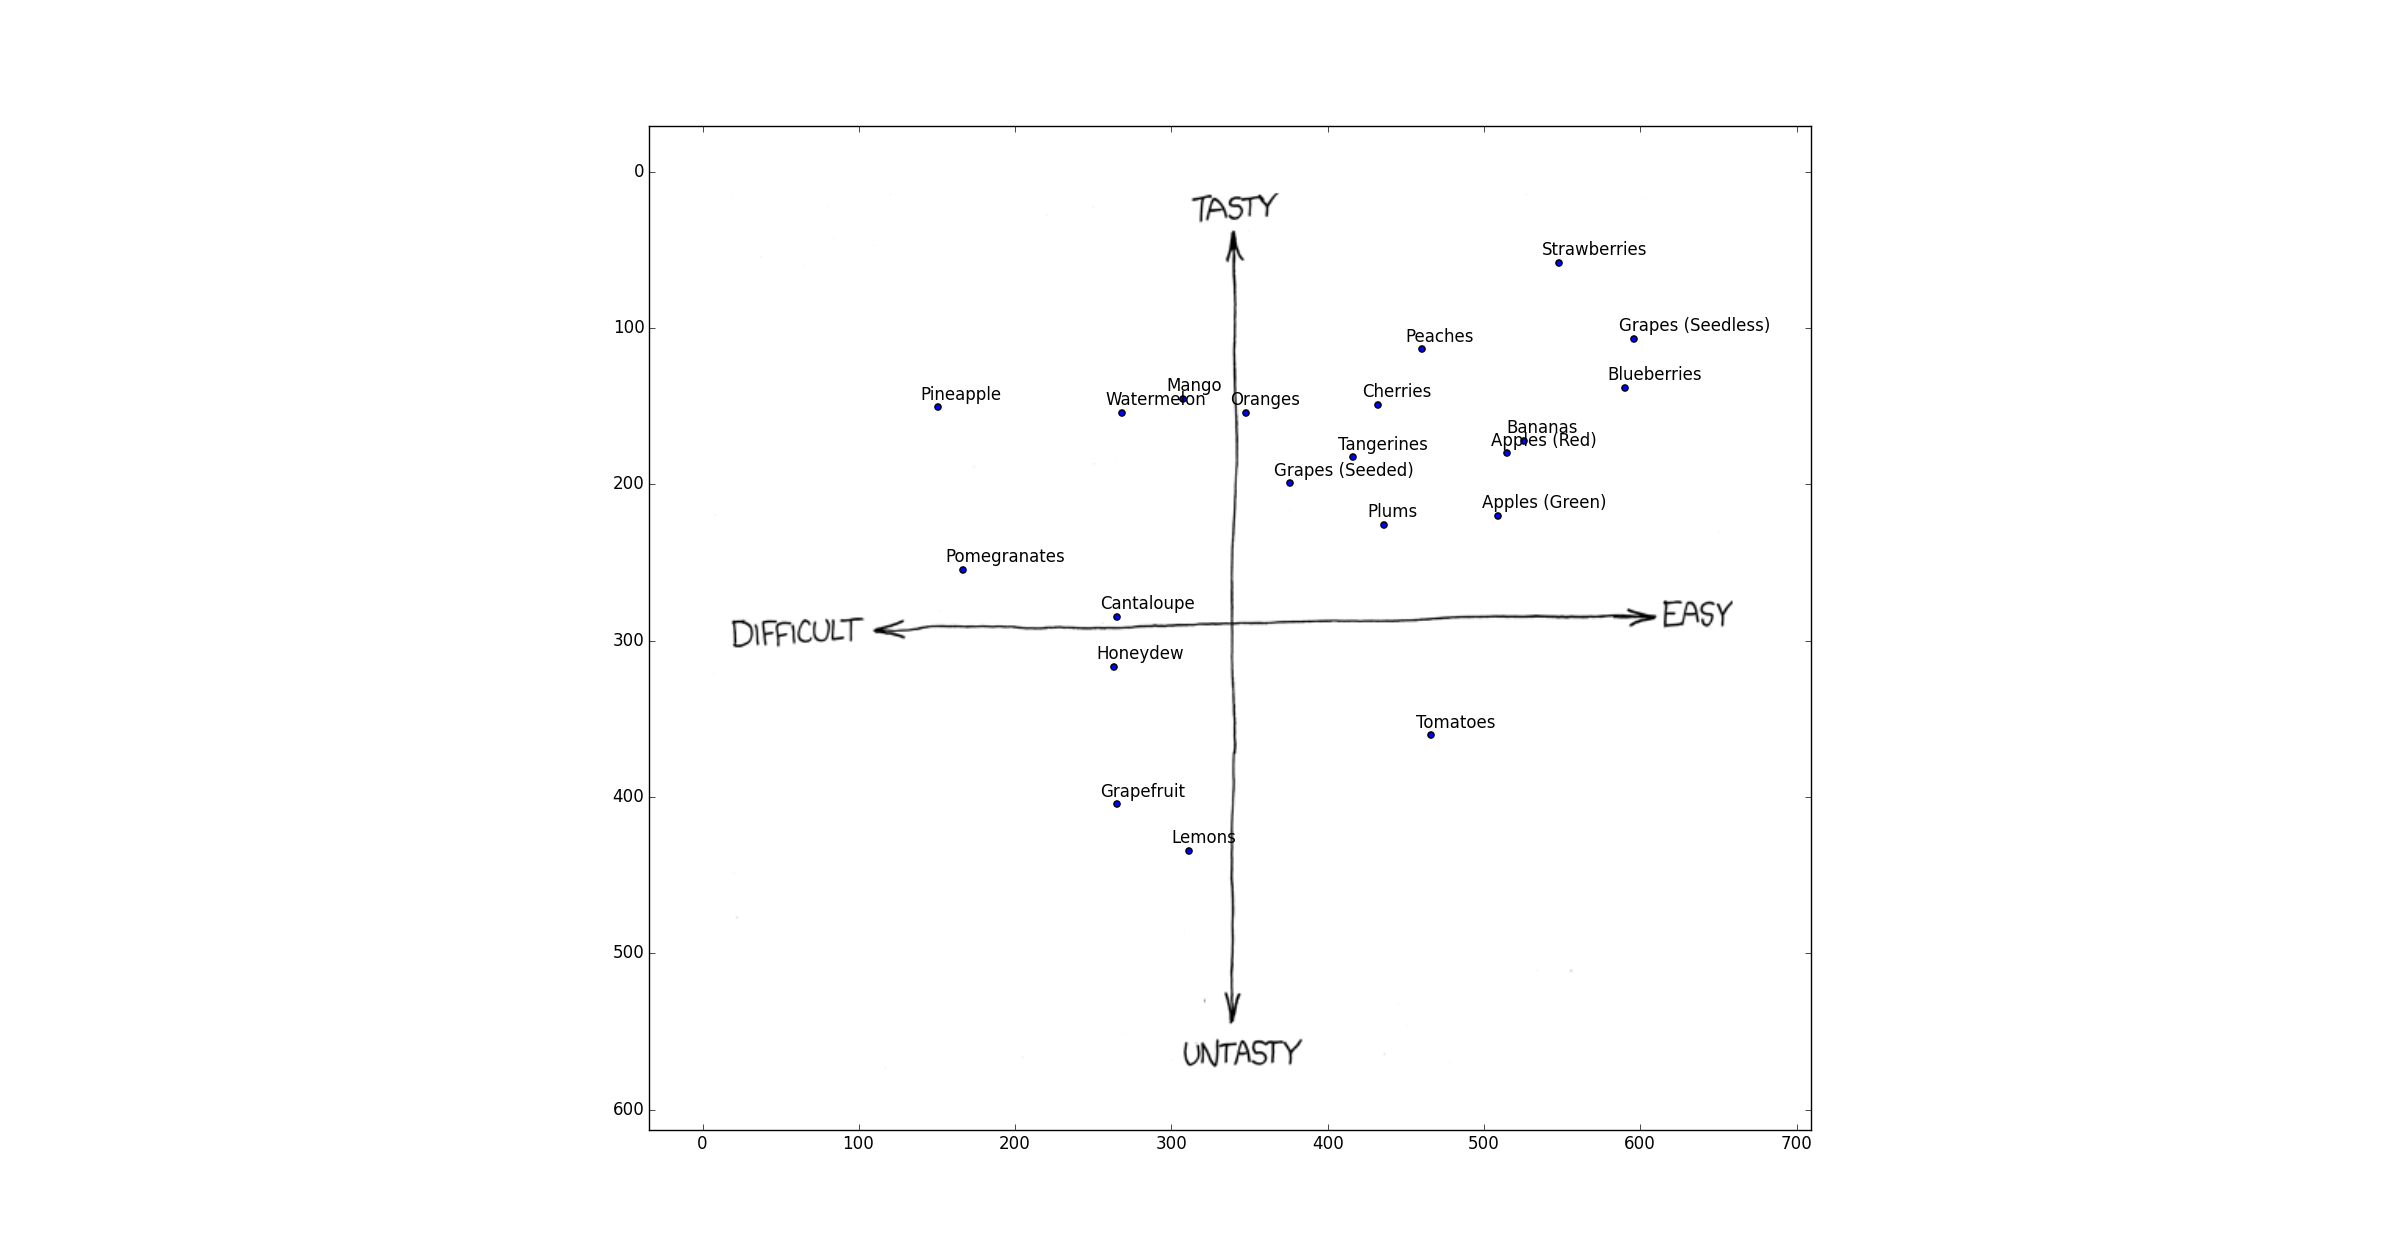
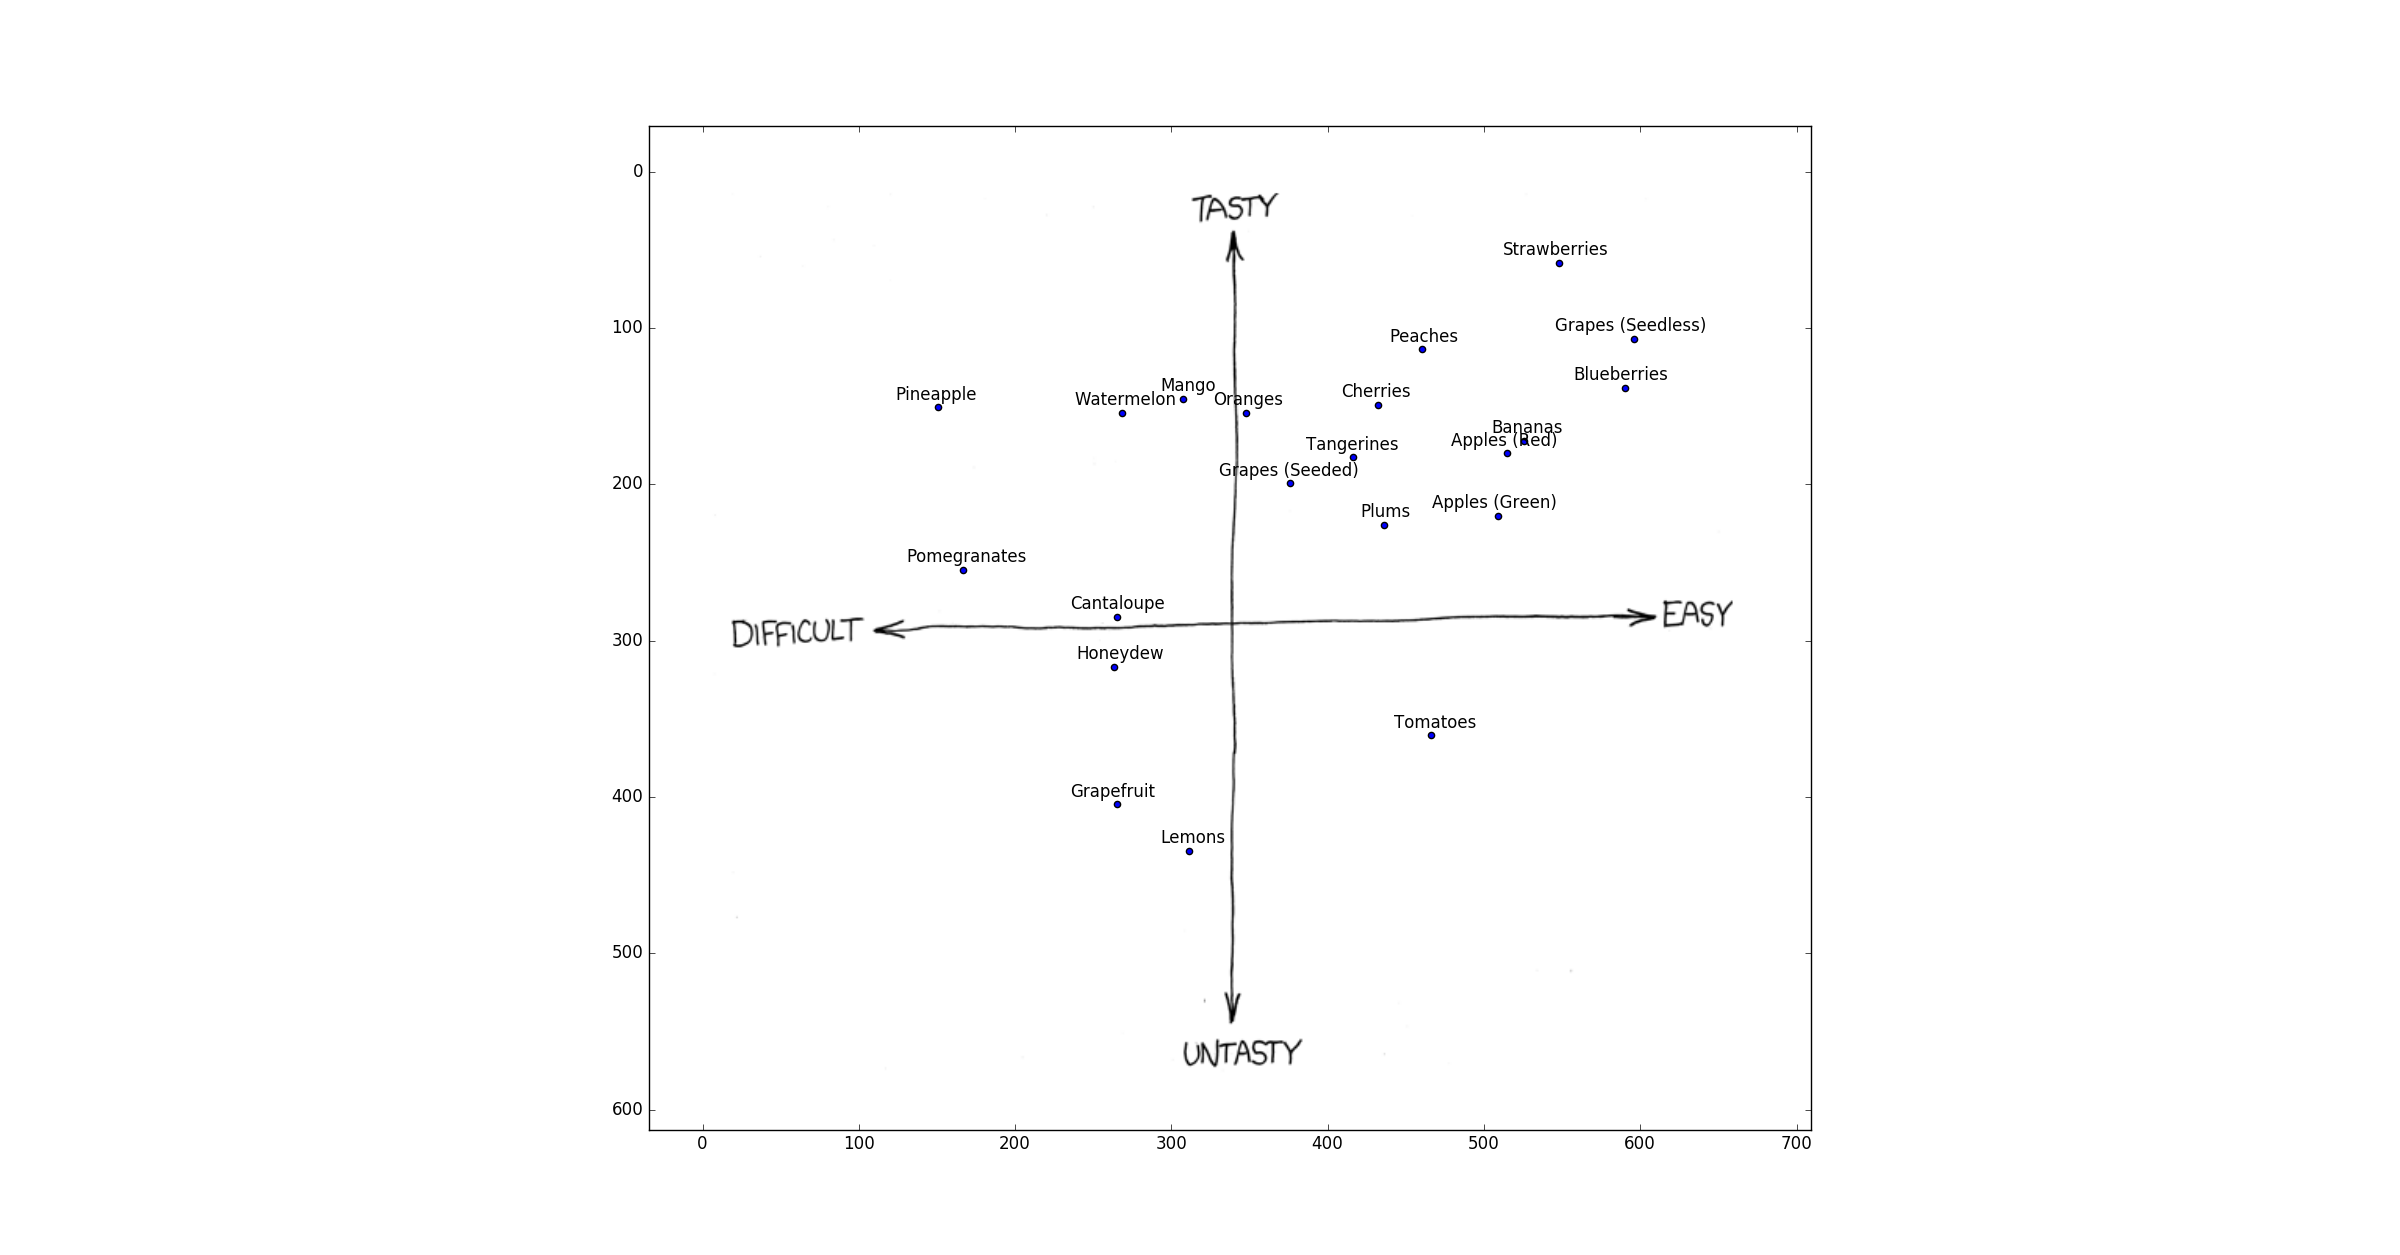
Adding a lot more pictures, slightly changed graph generation

diff --git a/_scripts/fruit_grapher.py b/_scripts/fruit_grapher.py
@@ -178,6 +178,27 @@ def fit_gaussian(data, averages, categories):
 
 covariances = fit_gaussian(data, plotted_avgs, categories)
 
+fruits = list(averages.keys())
+hardest = sorted(fruits, key=lambda f: averages[f][0])
+easiest = sorted(fruits, key=lambda f: -averages[f][0])
+worst = sorted(fruits, key=lambda f: averages[f][1])
+tastiest = sorted(fruits, key=lambda f: -averages[f][1])
+# Area of ellipse = pi * a * b where a,b are lengths of major and minor
+# axes.
+# For covariance matrices, a and b are the sqrt of the eigenvalues
+# The determinant is the product of the eigenvalues
+# So, the determinant corresponds exactly to the area of the ellipse for
+# 1 stddev away.
+agreed_on = sorted(fruits, key=lambda f: np.linalg.det(covariances[f]))
+controversial = sorted(fruits, key=lambda f: -np.linalg.det(covariances[f]))
+
+print 'Hardest', hardest
+print 'Easiest', easiest
+print 'Worst', worst
+print 'Tastiest', tastiest
+print 'Controversial', controversial
+print 'Agreed On', agreed_on
+
 
 # Copied from StackOverflow
 def plot_point_cov(points, nstd=2, ax=None, **kwargs):
@@ -242,10 +263,13 @@ def plot_cov_ellipse(cov, pos, nstd=2, ax=None, **kwargs):
     return ellip
 
 
-def show_plot(data, averages, covariances):
+def show_plot(data, averages, covariances, ellipse=True, orig_fruit=True):
     fig = plt.figure()
 
-    img = plt.imread('xkcdemptyfruit.png')
+    if orig_fruit:
+        img = plt.imread('xkcdfruit.png')
+    else:
+        img = plt.imread('xkcdemptyfruit.png')
     plt.imshow(img)
 
     # Location of averages
@@ -260,24 +284,26 @@ def show_plot(data, averages, covariances):
     # Adds text labels
     plt.scatter(ease_coor, taste_coor)
     for i, fruit in enumerate(fruits):
-        xy = [ease_coor[i] - 10, taste_coor[i] - 5]
+        x_off = 3 * len(fruit)
+        xy = [ease_coor[i] - x_off, taste_coor[i] - 5]
         plt.annotate(s=fruit, xy=xy)
 
-    # Adds confidence ellipse
-    nstd = 0.25
-    # Area within nstd of mean
-    p = 1 - np.exp(-0.5 * nstd ** 2)
-    print 'Drawing ellipses within %f of mean' % p
+    if ellipse:
+        # Adds confidence ellipse
+        nstd = 0.25
+        # Area within nstd of mean
+        p = 1 - np.exp(-0.5 * nstd ** 2)
+        print 'Drawing ellipses within %f of mean' % p
 
-    for i, fruit in enumerate(fruits):
-        cov = covariances[fruit]
-        ave = averages[fruit]
-        # Draw the 2-sigma ellipse.
-        plot_point_cov(data[:, i, :], nstd=nstd, facecolor='none')
-        #plot_cov_ellipse(cov, ave, nstd=0.25, facecolor='none')
-        print 'Added ellipse for %s' % fruit
+        for i, fruit in enumerate(fruits):
+            cov = covariances[fruit]
+            ave = averages[fruit]
+            # Draw the 2-sigma ellipse.
+            plot_point_cov(data[:, i, :], nstd=nstd, facecolor='none')
+            #plot_cov_ellipse(cov, ave, nstd=0.25, facecolor='none')
+            print 'Added ellipse for %s' % fruit
 
     plt.show()
 
 
-show_plot(data, plotted_avgs, covariances)
+show_plot(data, plotted_avgs, covariances, ellipse=True, orig_fruit=False)
